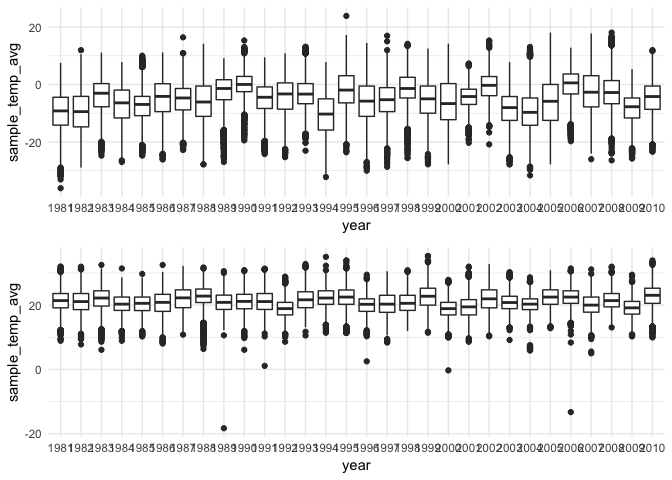
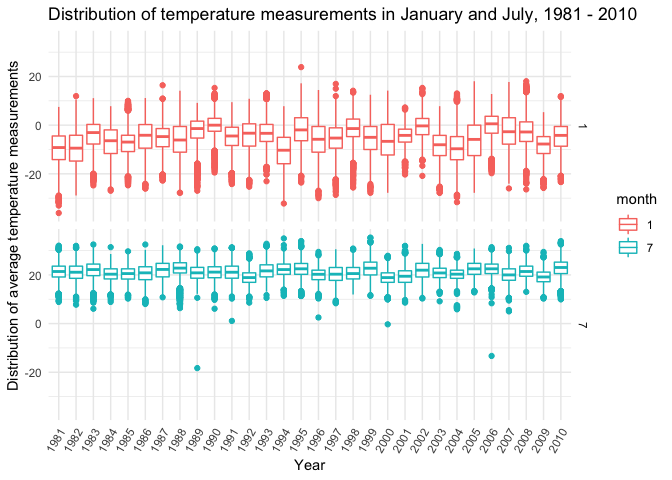
Polished up problem 3

diff --git a/P8105_HW3_cbp2128.md b/P8105_HW3_cbp2128.md
@@ -236,7 +236,7 @@ pink_and_coffee = instacart %>%
   filter(., product_name == "Pink Lady Apples" | 
            product_name == "Coffee Ice Cream") %>% 
   group_by(product_name, order_dow) %>% 
-  summarize(mean_order_hour = round(mean(order_hour_of_day), 2)) %>% 
+  summarize(mean_order_hour = round(mean(order_hour_of_day), 1)) %>% 
   spread(key = order_dow, value = mean_order_hour)
 
 colnames(pink_and_coffee) = proper_colnames
@@ -246,8 +246,8 @@ kable(pink_and_coffee)
 
 | product\_name    |  Sunday|  Monday|  Tuesday|  Wednesday|  Thursday|  Friday|  Saturday|
 |:-----------------|-------:|-------:|--------:|----------:|---------:|-------:|---------:|
-| Coffee Ice Cream |   13.77|   14.32|    15.38|      15.32|     15.22|   12.26|     13.83|
-| Pink Lady Apples |   13.44|   11.36|    11.70|      14.25|     11.55|   12.78|     11.94|
+| Coffee Ice Cream |    13.8|    14.3|     15.4|       15.3|      15.2|    12.3|      13.8|
+| Pink Lady Apples |    13.4|    11.4|     11.7|       14.2|      11.6|    12.8|      11.9|
 
 The table tells us that, on average, coffee ice cream is ordered later in the day than Pink Lady Apples. The greatest difference in mean purchase hour is about 4 on Tuesdays, indicating customer realizations that it is only the middle of the week still and they have only 2 days until Data Science homework is due.
 
@@ -290,12 +290,13 @@ We can get a visualization of the frequency of snowfall measurements in a histog
 ``` r
 ggplot(data = clean_NY_NOAA,
        aes(snow)) +
-  geom_histogram()
+  geom_histogram() +
+  labs(
+    title = "Histogram of snowfall values in NOAA dataset",
+    x = "Value of snowfall",
+    y = "Frequency"
+  )
 ```
-
-    ## `stat_bin()` using `bins = 30`. Pick better value with `binwidth`.
-
-    ## Warning: Removed 381221 rows containing non-finite values (stat_bin).
 
 <img src="P8105_HW3_cbp2128_files/figure-markdown_github/P3_wheres_my_snow-1.png" width="90%" style="display: block; margin: auto;" />
 
@@ -307,18 +308,21 @@ This questions wants to look at January and July through time on the scale of ye
 
 ``` r
 jan_jul_temps = clean_NY_NOAA %>% 
+  mutate(month = as.factor(month)) %>%
   filter(., month == 1 | month == 7,
          !is.na(tmax_C) & !is.na(tmin_C)) %>% 
   mutate(sample_temp_avg = (tmax_C + tmin_C) / 2)
 
-jan_temps = ggplot(data = filter(jan_jul_temps, month == 1),
-                   aes(x = year, y = sample_temp_avg)) +
-  geom_boxplot()
-jul_temps = ggplot(data = filter(jan_jul_temps, month == 7),
-                   aes(x = year, y = sample_temp_avg)) +
-  geom_boxplot()
-
-jan_temps / jul_temps
+ggplot(data = jan_jul_temps,
+       aes(x = year, y = sample_temp_avg, color = month)) +
+  geom_boxplot() +
+  facet_grid(month ~ .) +
+  labs(
+    title = "Distribution of temperature measurements in January and July, 1981 - 2010",
+    x = "Year",
+    y = "Distribution of average temperature measurements"
+  ) + 
+  theme(axis.text.x = element_text(angle = 60, hjust = 1))
 ```
 
 <img src="P8105_HW3_cbp2128_files/figure-markdown_github/P3_jan_vs_jul_temps-1.png" width="90%" style="display: block; margin: auto;" />
@@ -332,7 +336,12 @@ These two plots require us to look at the entire dataset, so no filters here. We
 ``` r
 min_max_pairs = ggplot(data = clean_NY_NOAA, 
                    aes(x = tmax_C, y = tmin_C)) +
-  geom_bin2d(bins = c(50, 50))
+  geom_bin2d(bins = c(50, 50)) + 
+  labs(
+    title = "Heat map of max temperature-min temperature pairs in the NOAA dataset",
+    x = "Maximum temperature (°C)",
+    y = "Minimum temperature (°C)"
+  )
 
 snowfall_thru_time = clean_NY_NOAA %>% 
   filter(., snow > 0 & snow < 100) %>% 
@@ -341,28 +350,24 @@ snowfall_thru_time = clean_NY_NOAA %>%
             avg_snow = mean(snow),
             std_err_snow = (var(snow) / n_rows)**(1/2)) %>% 
   ggplot(data = ., aes(x = year, group = 1)) +
-  geom_line(aes(y = avg_snow, fill = "blue")) +
+  geom_line(aes(y = avg_snow)) +
   geom_ribbon(aes(ymin = avg_snow - 1.96 * std_err_snow, 
                   ymax = avg_snow + 1.96 * std_err_snow), 
-              fill = "blue", alpha = 0.5)
-```
-
-    ## Warning: Ignoring unknown aesthetics: fill
-
-``` r
-min_max_pairs
-```
-
-    ## Warning: Removed 1136276 rows containing non-finite values (stat_bin2d).
-
-<img src="P8105_HW3_cbp2128_files/figure-markdown_github/temp_thru_time-1.png" width="90%" style="display: block; margin: auto;" />
-
-``` r
+              fill = "blue", alpha = 0.5) +
+  theme(axis.text.x = element_text(angle = 60, hjust = 1)) +
+  labs(
+    title = "Distribution of snowfall greater than 0 mm and less than 100mm, 1981 - 2010",
+    x = "Year",
+    y = "Average snowfall (mm)"
+  ) +
+  theme(axis.text.x = element_text(angle = 60, hjust = 1))
+  
+min_max_pairs /
 snowfall_thru_time
 ```
 
-<img src="P8105_HW3_cbp2128_files/figure-markdown_github/temp_thru_time-2.png" width="90%" style="display: block; margin: auto;" />
+<img src="P8105_HW3_cbp2128_files/figure-markdown_github/temp_thru_time-1.png" width="90%" style="display: block; margin: auto;" />
 
 The `tmax_C` vs `tmin_C` comparison gives us an elliptical shape that suggests that the ranges for the two variables are different. Most of the heat ranges from 0°C to 30°C for `tmax_C` and from 0°C to 15°C for `tmin_C`. These ranges capture the lows of winter to the balmy summers.
 
-The distribution of `snow` shows that snowfall remained relatively stable around 32mm of snow up until 2005. The years after that suggest a drop in the amount of snowfall. The solid line describes the trend in mean snowfall amount, and the ribbon captures a 95% confidence interval for the mean snowfall for each year. The distirbution of snowfall values between 0 and 100 are slightly right-skewed, but the sheer amount of data points can reduce the sampling variance enough to be reasonably normal.
+The distribution of `snow` shows that snowfall remained relatively stable around 32mm of snow up until 2005. The years after that suggest a drop in the amount of snowfall. The solid line represents the average snowfall amount, and the ribbon captures a 95% confidence interval around the mean snowfall for each year. The distirbution of snowfall values between 0 and 100 are slightly right-skewed, but the sheer amount of data points can reduce the sampling variance enough to be reasonably normal.
